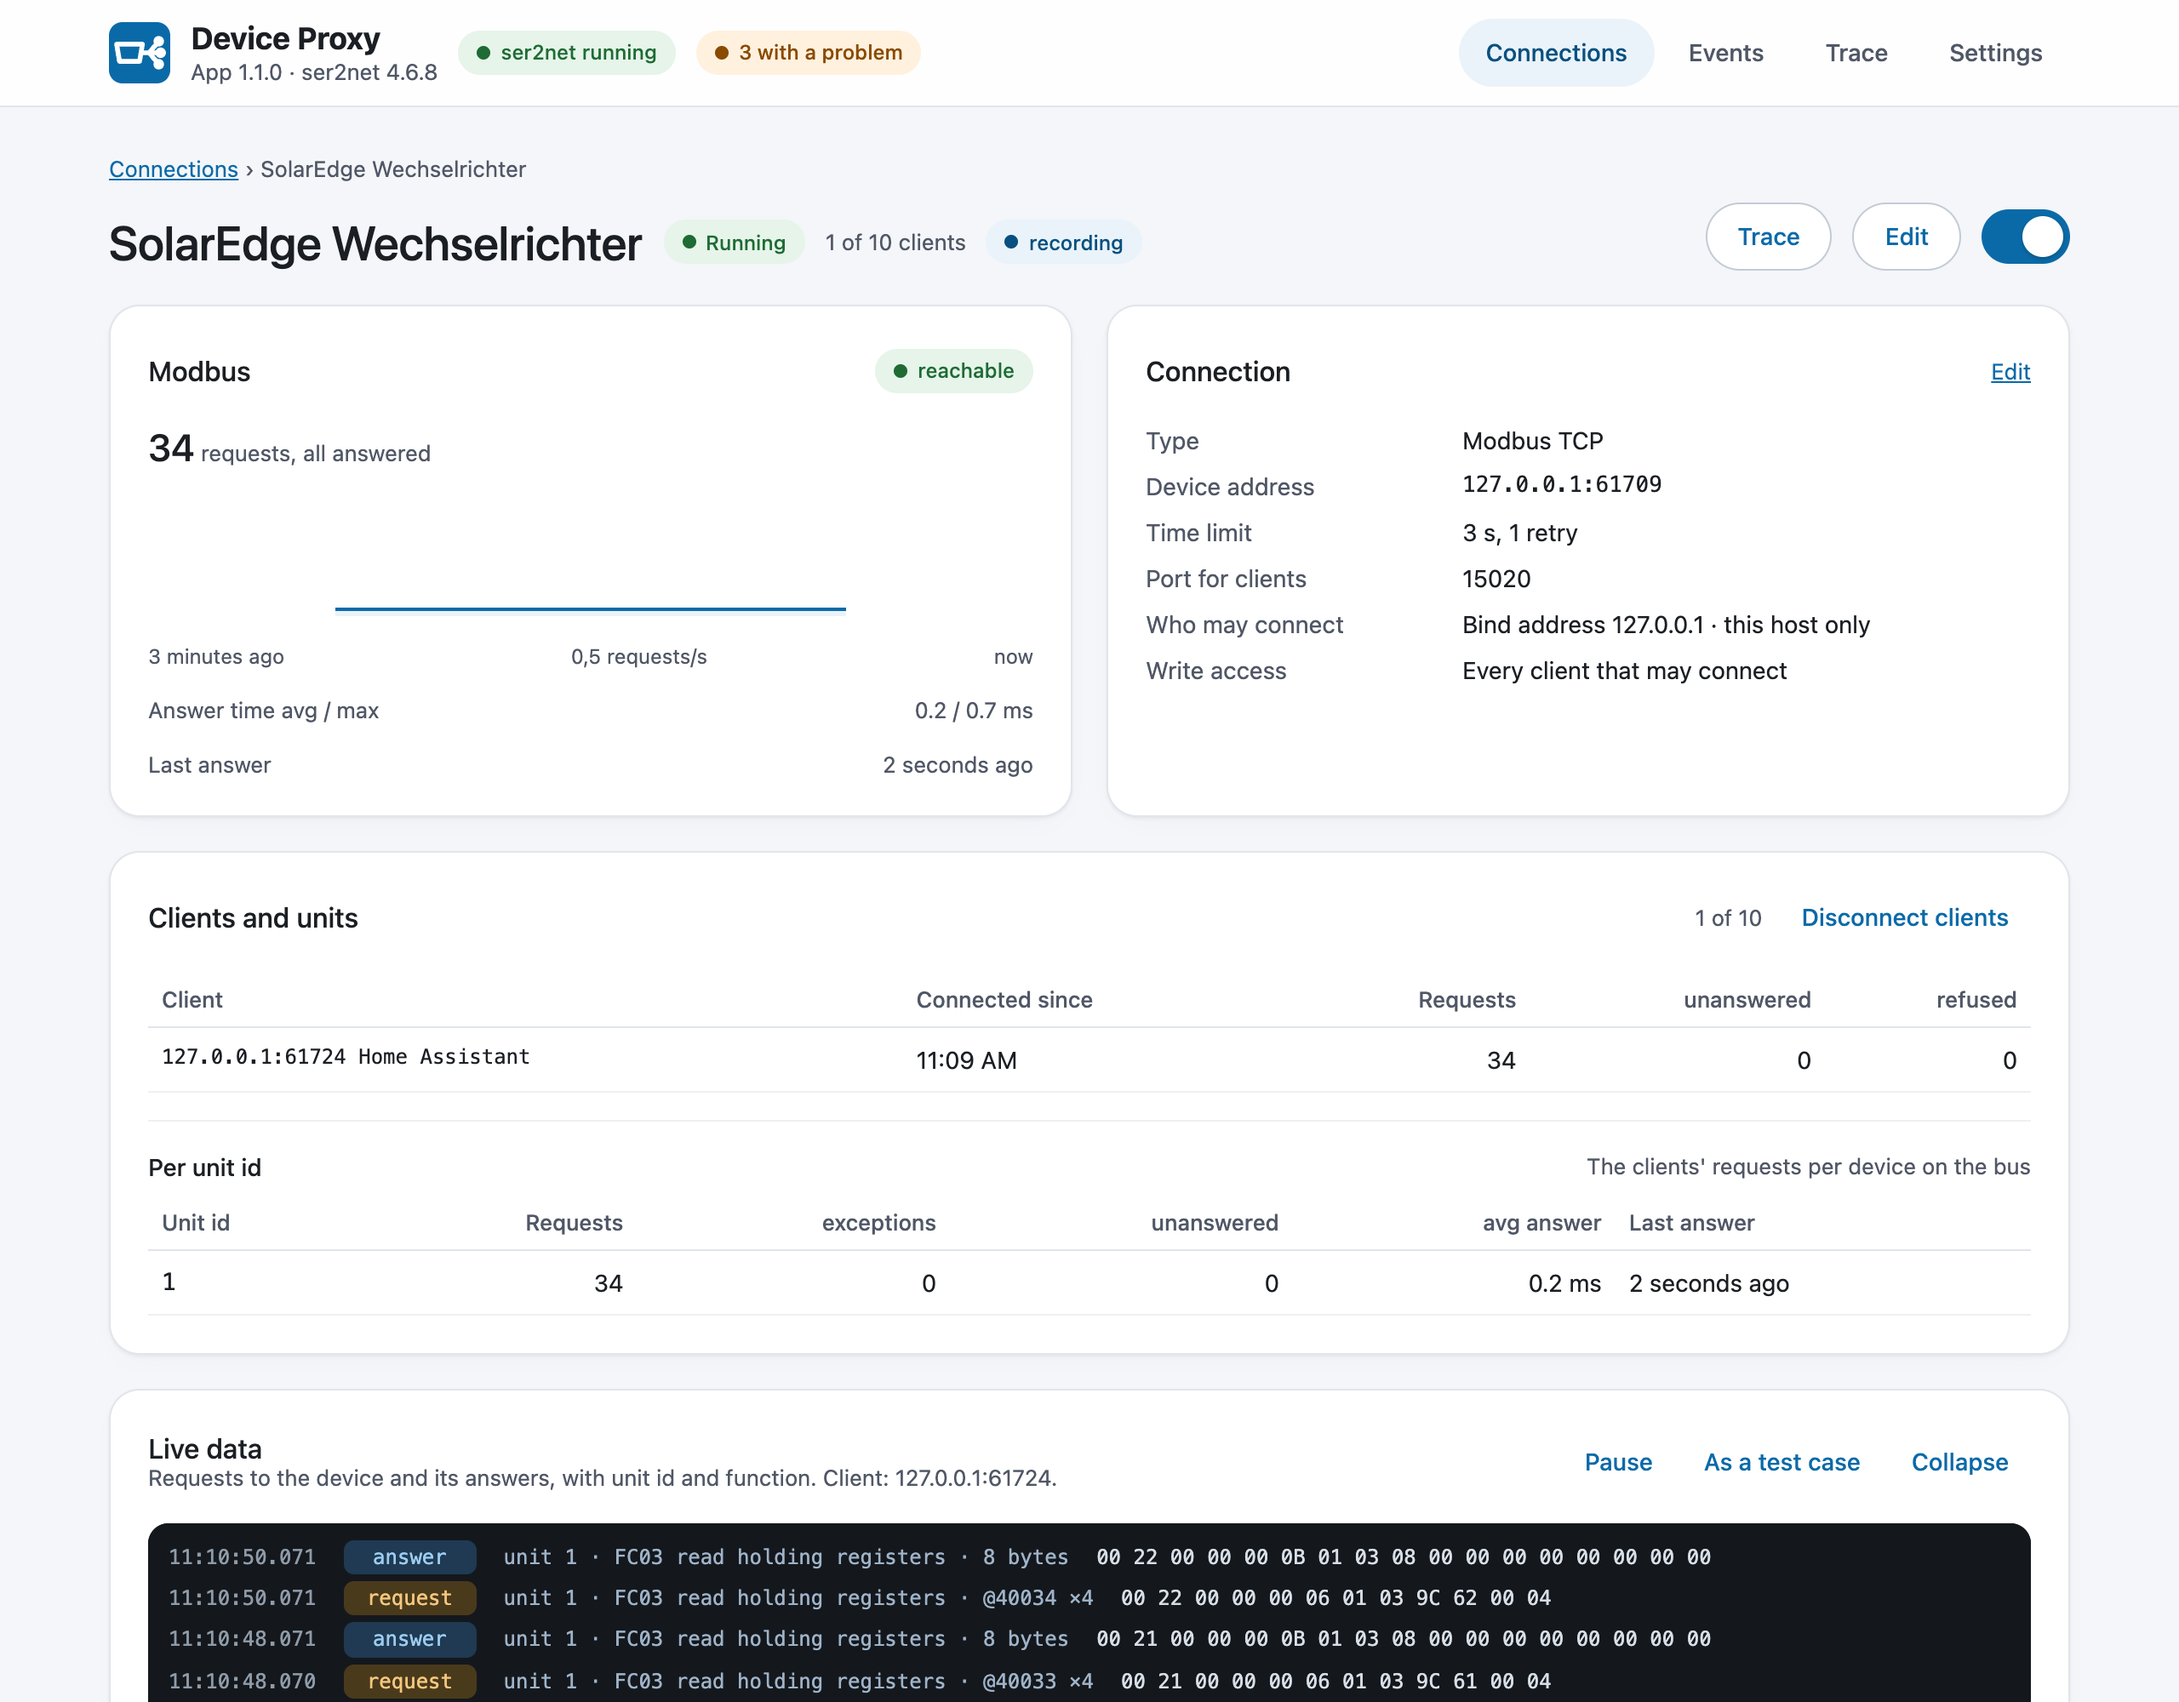
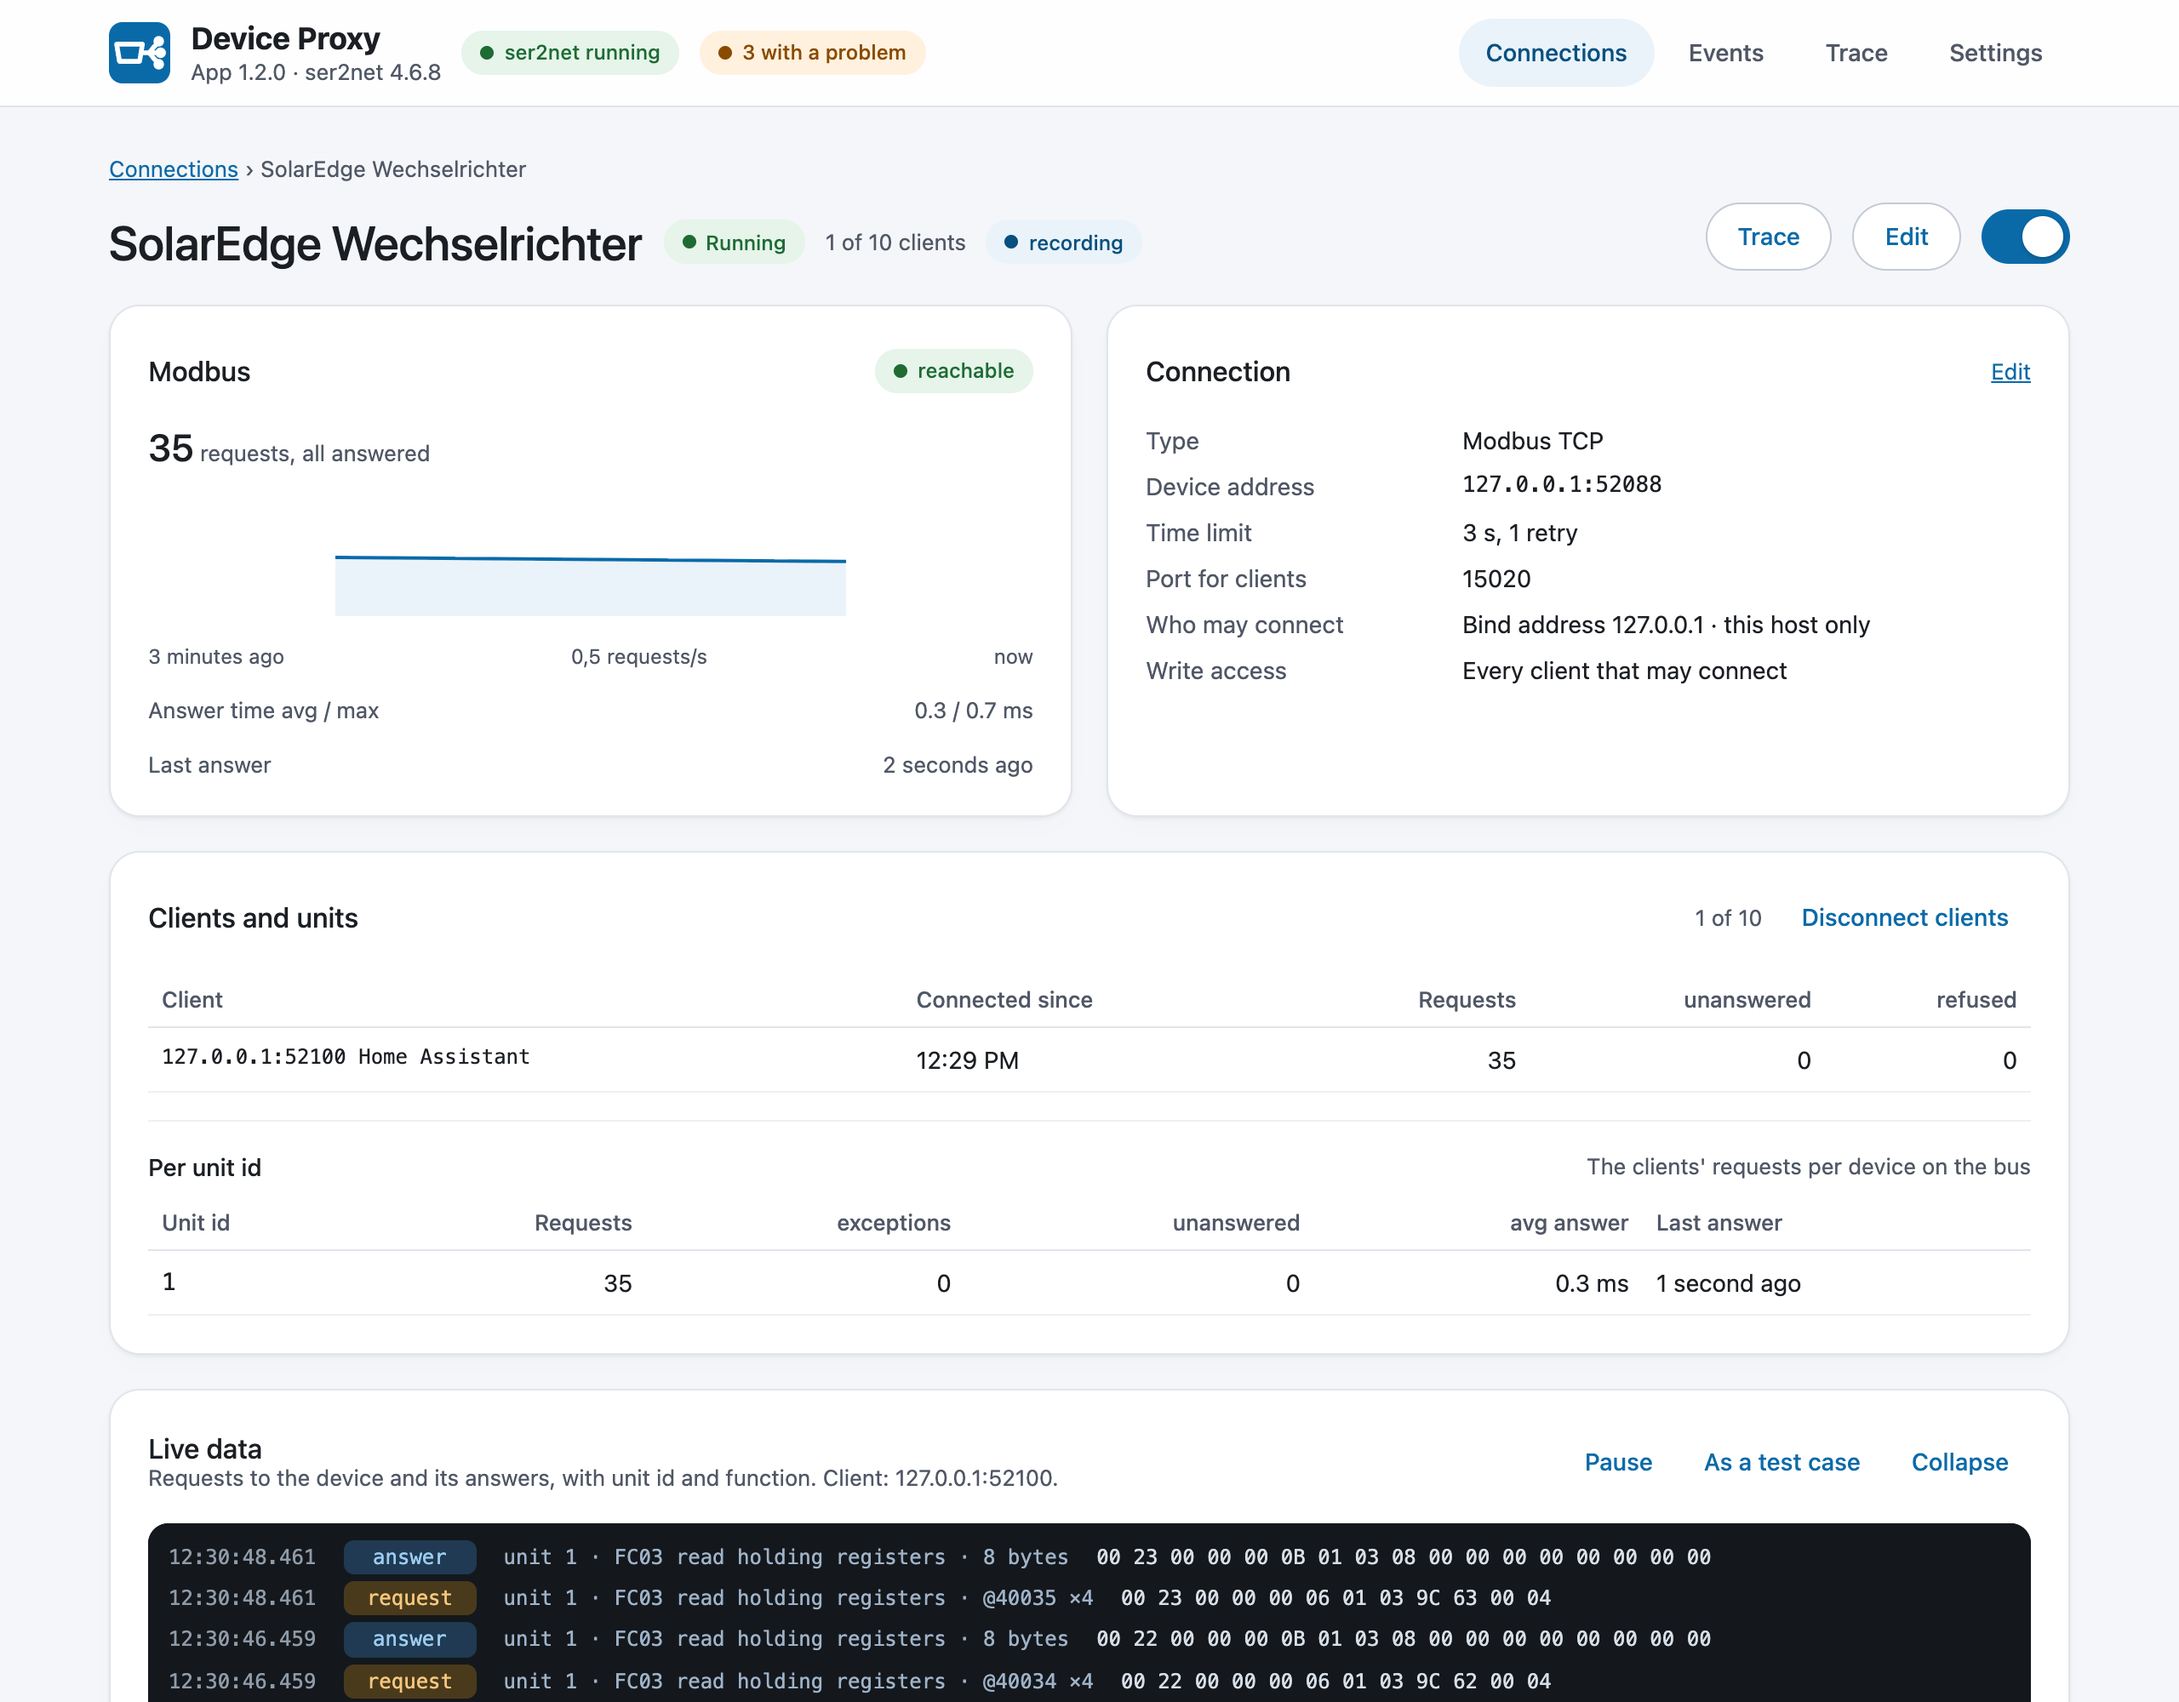
1.2.0: version, changelog, docs (check access, what saving does, restore the version before, write access and Z-Wave defaults) and screenshots

diff --git a/device_proxy/DOCS.de.md b/device_proxy/DOCS.de.md
@@ -89,6 +89,10 @@ zeigt beim Tippen den entstehenden Teil der `ser2net.yaml`.
 - **Jeder** – keine Grenze. ser2net hat keine Anmeldung: wer den Port erreicht, kann das Gerät
   lesen und steuern.
 
+Ein **Z-Wave-Stick** beginnt mit einer eigenen Vorgabe, weil er ohne Anmeldung Befehle annimmt:
+nur Home Assistant und die Apps (`127.0.0.1, 172.30.32.0/23` unter **Erweitert → Erlaubte
+Clients**). Ist das Feld leer, entscheidet die Netzwerk-Einstellung.
+
 ### Mehrere Clients an einem Gerät
 
 Eine Verbindung kann mehrere Clients zulassen. Jeder Client bekommt alle Daten des Geräts; was
@@ -177,7 +181,12 @@ behalten „Alle Clients“, sodass sich für ihre Clients nichts ändert. Durch
 Lesezugriffe (Funktionen 1–4, 7, 11, 12, 17, 20, 24, das Diagnose-Echo und das Lesen der
 Geräte-Identifikation), und nur mit genau der Länge dieser Anfrage; alles andere –
 Schreibzugriffe, Herstellerfunktionen wie Huaweis 0x41 – bekommt Fehler 0x01 und wird gezählt
-und protokolliert. Lesen bleibt allen erlaubten Clients offen.
+und protokolliert. Lesen bleibt allen erlaubten Clients offen. Eine Verbindung, die ohne dieses
+Feld angelegt wird (über die API, per Skript), beginnt ebenfalls mit „Nur diese“; eine, die
+gespeichert wurde, bevor es das Feld gab, behält „Alle Clients“. Die Seite der Verbindung zeigt,
+wer wirklich schreiben darf: jeder Client, der sich verbinden darf, die eingetragenen, niemand,
+wenn bei „Nur diese“ keiner eingetragen ist, die erlaubten Register und bei Units anderer
+Verbindungen auch deren Regel.
 
 **Erlaubte Register beim Schreiben** (bei Schreibzugriff „Alle Clients“ oder „Nur diese“):
 Adressen und Bereiche, z. B. `40100-40120 47000`. Ein Schreibzugriff, der etwas außerhalb ändert
@@ -238,6 +247,13 @@ Anfrage und Antwort als Hex mit Unit, Funktion, Register und Anzahl (z. B.
   Wechselrichtern und Zählern, das SunSpec-Common-Model an Register 40000, 0 oder 50000.
   Hersteller, Modell und Version werden angezeigt, dazu eine passende Integration, wo eine
   bekannt ist.
+
+- **Zugriff prüfen**: IP-Adresse eines Clients, Unit, Funktion und Register; die Antwort sagt,
+  ob er sich verbinden, lesen und schreiben darf und welche Regel entscheidet – die
+  Bind-Adresse, die erlaubten Clients der Verbindung, die Netzwerk-Einstellung, der
+  Schreibzugriff, die erlaubten Register oder eine Unit, die an eine andere Verbindung geht. Es
+  wird nichts gesendet; ein Client auf diesem Rechner zählt als 127.0.0.1. Geprüft werden die
+  gespeicherten Regeln, dieselben, die der Proxy anwendet.
 
 Anfragen der Werkzeuge zählen nicht als die der Clients. Nur „Register schreiben“ ändert das
 Gerät.
@@ -443,6 +459,15 @@ Historie: Abbrüche und Verfügbarkeit je Verbindung über 30 Tage und eine Zeit
 wiederholende Ereignisse, etwa ein Stick, der immer wieder wegfällt, werden zusammengefasst. Die
 Historie wird standardmäßig 30 Tage aufbewahrt. **Einstellungen → Konfig-Historie** hält die
 letzten 25 Konfigurationen mit ihren Unterschieden; jede lässt sich wiederherstellen.
+
+**Vor dem Speichern** nennt das Formular einer Verbindung die laufenden Verbindungen, die beim
+Speichern neu aufgebaut oder beendet werden, und wie viele Clients sich neu verbinden müssen
+(„nur diese Verbindung“ stimmt nicht immer: ein Ersatz-Gateway oder die Netzwerk-Einstellung
+betreffen andere). Ebenso die Rückfragen vor einer Änderung der Netzwerk-Einstellung oder des
+Heimnetzes, einem Import und dem Wiederherstellen einer Version oder Sicherung. **Nach dem
+Speichern**: arbeitet eine Verbindung nicht mehr, die vorher lief (Gerät nicht erreichbar, Port
+belegt), sagen das die Übersicht und die Seite der Verbindung, mit **Stand davor
+wiederherstellen** – die Konfiguration von vor der Änderung, in einem Schritt.
 
 ## Clients
 

diff --git a/device_proxy/DOCS.md b/device_proxy/DOCS.md
@@ -85,6 +85,10 @@ type.
 - **Anyone** – no limit. ser2net has no login: whoever reaches the port can read and control
   the device.
 
+A **Z-Wave stick** starts with a rule of its own, because it takes commands without a login:
+Home Assistant and the apps only (`127.0.0.1, 172.30.32.0/23` under **Advanced → Allowed
+clients**). Empty the field to let the network setting decide.
+
 ### Several clients on one device
 
 A connection can allow several clients. Every client gets all data from the device; what the
@@ -169,7 +173,11 @@ keep "all clients", so nothing changes for their clients. Only known reads pass 
 1–4, 7, 11, 12, 17, 20, 24, the diagnostics echo and reading the device identification), and
 only with the exact length of that request; everything else – writes, vendor functions such
 as Huawei's 0x41 – gets exception 0x01 and is counted and logged. Reading stays open to all
-allowed clients.
+allowed clients. A connection created without this field (over the API, by a script) starts
+with "only these" too; one saved before the field existed keeps "all clients". The
+connection's page shows who may really write: every client that may connect, the listed ones,
+nobody when "only these" lists nobody, the registers it is limited to and, for units of other
+connections, their rule as well.
 
 **Registers that may be written** (with write access "All" or "Listed"): addresses and ranges,
 e.g. `40100-40120 47000`. A write that changes anything outside, or whose addresses cannot be
@@ -225,6 +233,12 @@ register and count (e.g. `unit 1 · FC03 read holding registers · @40000 ×4`).
   found is asked who it is: its device identification (function 43) and, for inverters and
   meters, the SunSpec common model at register 40000, 0 or 50000. Vendor, model and version
   are shown, with a fitting integration where one is known.
+
+- **Check access**: a client's IP address, unit, function and register; the answer says
+  whether it may connect, read and write and which rule decides – the bind address, the
+  connection's allowed clients, the network setting, the write access, the registers, or a
+  unit sent on to another connection. Nothing is sent; a client on this host counts as
+  127.0.0.1. It checks the saved rules, the same the proxy applies.
 
 Tool requests are not counted as the clients'. Only "write registers" changes the device.
 
@@ -419,6 +433,14 @@ drops and availability per connection over 30 days and a timeline. Repeating eve
 a stick that keeps dropping out, are summed up. The history is kept 30 days by default.
 **Settings → Configuration history** keeps the last 25 configurations with their
 differences; each one can be restored.
+
+**Before saving** the connection form names the running connections that saving sets up again
+or stops and how many clients have to connect again ("only this connection" is not always
+so: a fallback or the network setting touch others). The same goes for the questions before a
+change of the network setting or the home networks, an import, and restoring a version or a
+backup. **After saving**: when a connection that worked before stops working (device not
+reachable, port taken), the connections page and the connection's page say so, with **Restore
+the version before** – the configuration as it was before the change, in one step.
 
 ## Clients
 

diff --git a/device_proxy/CHANGELOG.md b/device_proxy/CHANGELOG.md
@@ -1,5 +1,61 @@
 # Changelog
 
+## 1.2.0
+
+See before saving what a change does, and get back in one step when it broke something; check
+who may write to a Modbus device; safer defaults where a connection is made without the form;
+a more robust web interface.
+
+**Before and after saving**
+
+- **What saving does**: the connection form, and the questions before a change of the network
+  setting or the home networks, an import or restoring a version or backup, name the running
+  connections that are set up again or stop and how many clients have to connect again.
+- **Restore the version before**: when a connection that worked stops working after a change,
+  the connections page and its own page say so and offer the configuration before the change.
+
+**Modbus**
+
+- **Check access** (Tools): whether a client at an address may connect, read and write a
+  register, and which rule decides – by the same checks the proxy makes, without sending.
+- **Who may really write** on the connection's page: every client that may connect, the listed
+  ones, nobody when none is listed, the allowed registers, and the rule of a connection that
+  units are sent on to.
+- **New connections made without the form** (API, scripts) let only Home Assistant and the apps
+  write, as the form always did. Connections saved before write access existed keep "all".
+- **Host names**: a name that cannot be looked up, or a device not reached in time, is said in
+  words ("host name … not found (DNS)", "… not reached within … s") instead of the system's
+  text or "no answer".
+
+**Z-Wave**
+
+- A Z-Wave stick made without the form also lets only Home Assistant and the apps connect.
+
+**EnOcean**
+
+- The settings say when the status port for the EnOcean Eltako integration could not be
+  opened, why, and that the app tries again.
+
+**Web interface**
+
+- Trace files are downloaded in blocks instead of read whole into memory; the interface stays
+  usable during a large download.
+- One status request at a time with a time limit: requests no longer pile up while the app is
+  busy, and an older answer never overwrites a newer one.
+- Leaving the settings with changes not saved yet asks first, as the connection form does.
+- The choice groups (network, MQTT broker, ser2net source, import mode) work with arrow keys.
+- A connection that does not send its request or body in time is closed.
+- A full disk: a configuration that cannot be saved changes nothing and the page says why.
+- A ser2net.yaml with a control character is refused with a message instead of an error.
+- New screenshots in the READMEs.
+
+**Tests and tools**
+
+- Random and broken input for all parsers and the running proxies, broken uploads and backups.
+- `tools/soak_test.py` with limits for answer times, memory and recovery, device outages and
+  slow readers; `tools/soak_enocean.py` for a gateway and its fallback.
+- `tests/HARDWARE.md`: the checks that need real devices on Home Assistant OS.
+
 ## 1.1.0
 
 Many new tools: Modbus values decoded and devices identified, names for clients and a word on
